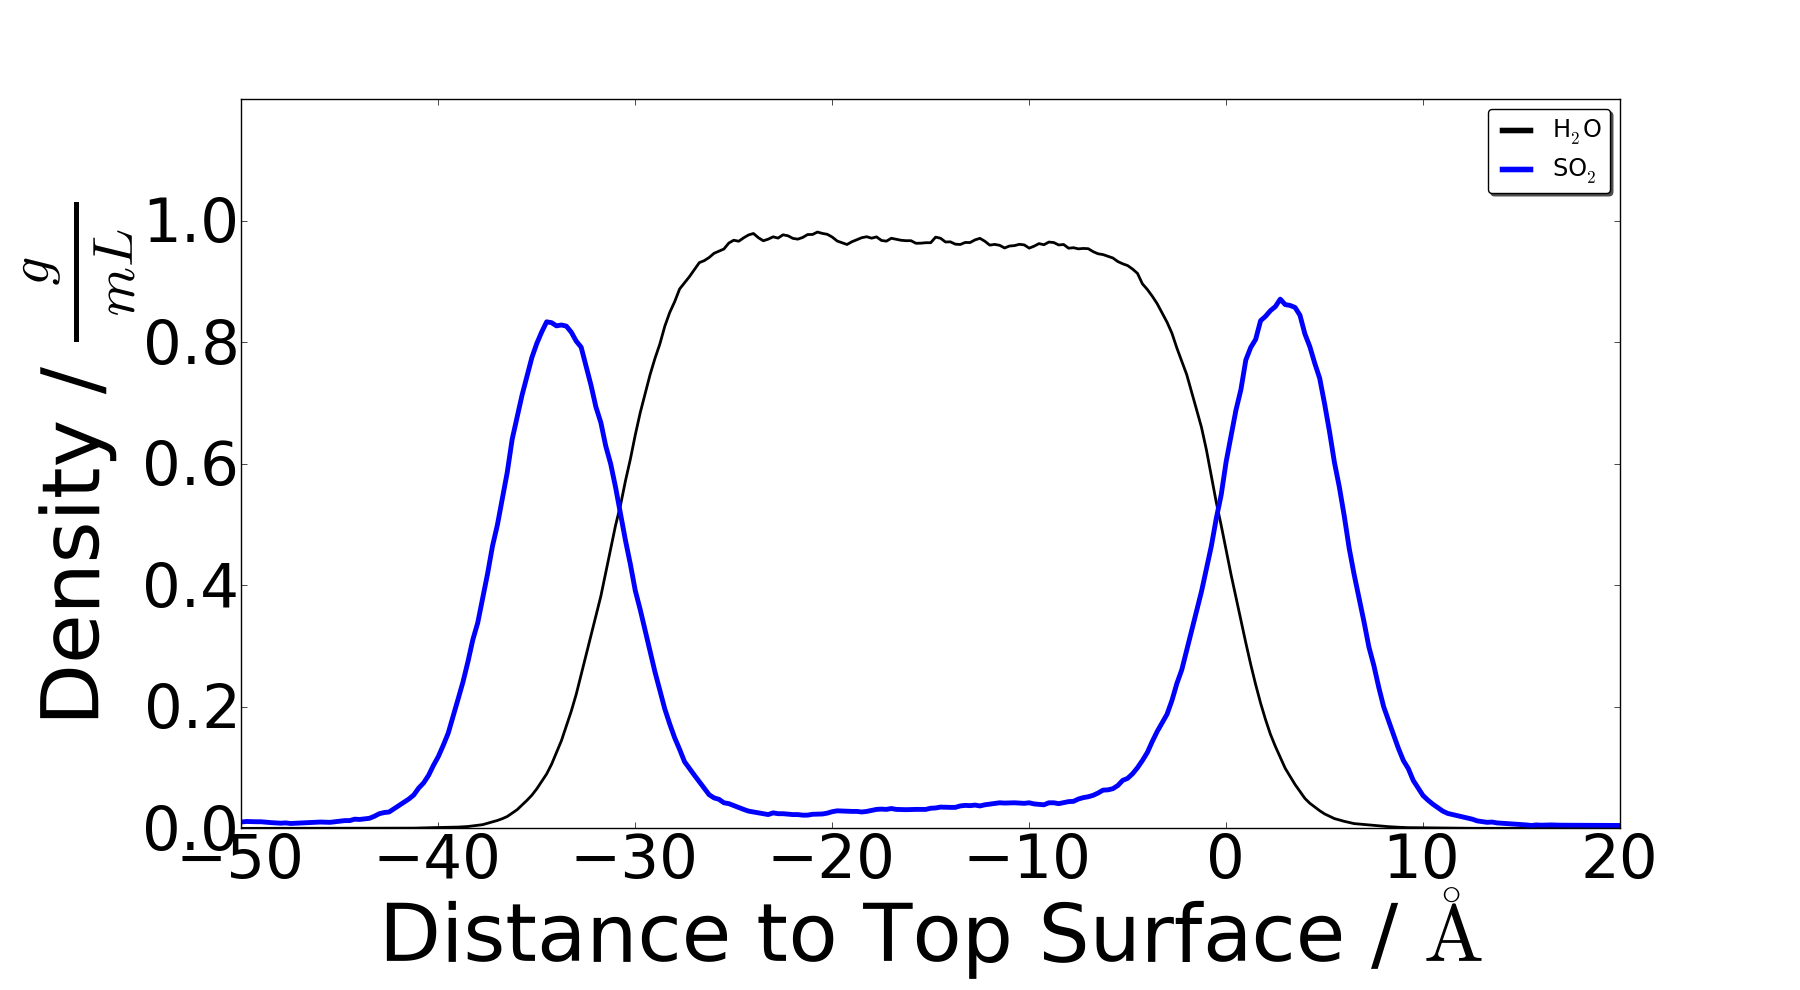
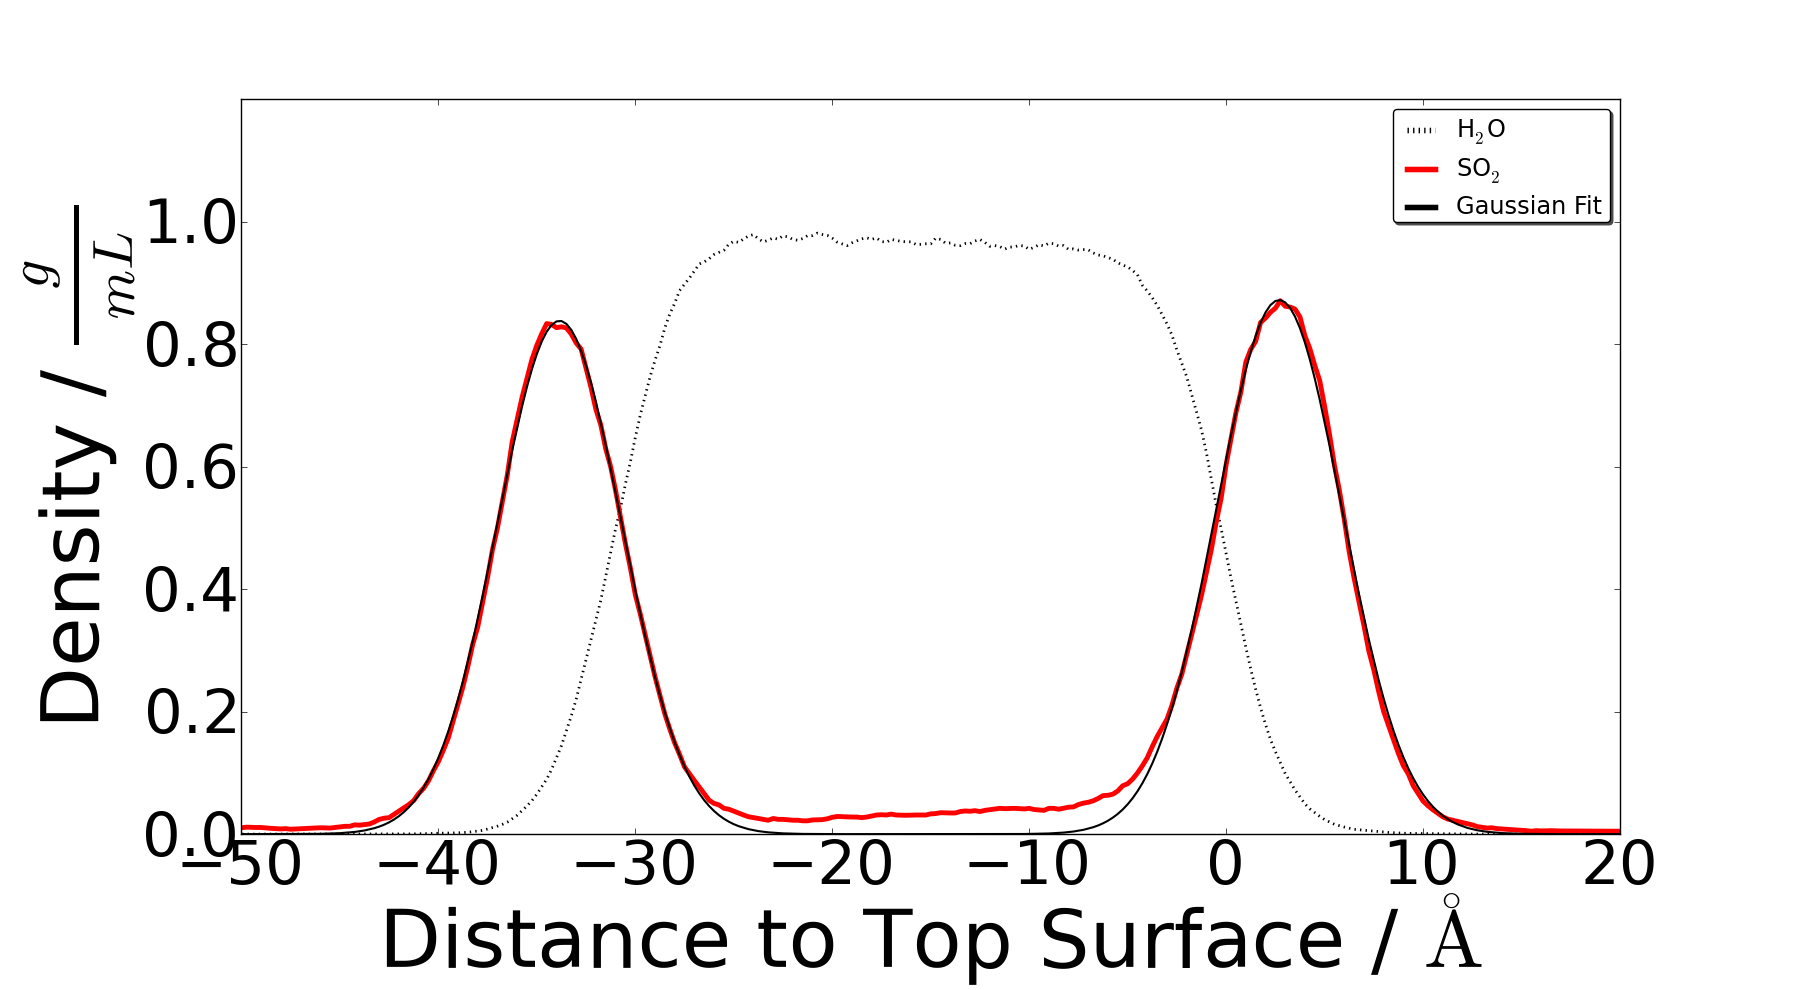
New density plots and wrapped up most of the density results section.

diff --git a/DensityResults.tex b/DensityResults.tex
@@ -1,0 +1,22 @@
+\section{Surface Density Distributions}
+
+One measure of surface activity is the spatial distribution of molecules around the interfacial region. The density distribution of both \wat~and\suldiox~were calculated for the equilibrium MD simulations, and the results are presented in figure \ref{fig:density} for both the neat-water and saturated simulations. The \suldiox~in the neat-water system remained at the top slab surface. While the \suldiox~equilibrated in the saturated system, both in the bulk and gas phases accumulated at both the top and bottom surfaces. 
+
+The density distributions of the \suldiox~were fit to gaussian lineshapes as shown in equation \ref{eq:gaussian} using the common definitions of the variables $A$, $\mu$, and $\sigma$, and given as a function of the distance to the surface, $z$.
+
+\begin{equation}
+  \rho(z)=\frac{A}{\sqrt{2 \pi \sigma^2}} e^{-\frac{(z-\mu)^2}{2\sigma^2}}
+  \label{eq:gaussian}
+\end{equation}
+
+In the neat-water \suldiox~distribution, $\mu=0.781$, $A=0.109$, and $\sigma=1.684$\angs. Thus, the \suldiox~tends to locate just beneath the surface when in a low-concentration water environment, and it did not fall further into the bulk or move out of the surface into the gas phase. This surface active behavior was found experimentally by a previous SFG study by our group,\cite{Tarbuck2005,Tarbuck2006} and also verified by the computational simulations and spectral calculations of Dang et al.\cite{Baer2010} It was concluded that a surface \suldiox~hydrate complex forms and modifies the structure of water above the Gibbs dividing surface (GDS) shifting \was~free-OH oscillators in towards the bulk, creating a stronger hydrogen-bonding network. In a later section of this article we look at the effect of \suldiox~on surface water orientation.
+
+Both saturated \suldiox~surfaces exhibit accumulations of \suldiox. However, unlike the neat-water slab, the saturated slab has a non-zero bulk concentration of \suldiox~that does not adsorb to the surface. The coefficient values for the top surface from eq \ref{eq:gaussian} are $\mu_{top}=2.695$, $A_{top}=7.001$, and $\sigma_{top}=3.203$. The bottom surface values are $\mu_{bottom}=-33.846$, $A_{bottom}=6.618$, and $\sigma_{bottom}=3.151$\angs. The added concentration of \suldiox~creates a layer of molecules adsorbed on top of the water surface. The center of this distribution is further into the gas phase than for the single-\suldiox~molecule surface. The accumulation of \suldiox~in this classical simulation coincides with the experimental conclusions of a surface of hydrate-complexed \suldiox, but without breakble bonds in the simulation the chemistry that may pull \suldiox~into the bulk water phase is absent. We have confidence in the surface complexation that is exhibited, the effect of the \suldiox~on the surface water molecules, and the accumulation of \suldiox at the interface. However, we do not yet conclude that the specific locations of \suldiox~on top of the water surface are as accurate as those found in the DFT ab initio calculations of Dang et al.\cite{Baer2010}
+
+\begin{figure}[h!]
+	\begin{center}
+		\includegraphics[scale=1.0]{images/density/density.png}
+		\caption{Molecular density distributions of \wat~and \suldiox~calculated along the long-axis of the simulated cells. The distance axis shows the distance of the given molecule from the top surface of the \wat~slab, with positive values located above the slab towards the gas phase, and negative values located in the water bulk. The lower slab surface is located at approx. -30\angs. Distributions of both the neat-water simulation with a single \suldiox~(left, scaled 10x for clarity), and the saturated system (right) are shown.}
+		\label{fig:density}
+	\end{center}
+\end{figure}

diff --git a/Article.tex b/Article.tex
@@ -32,6 +32,7 @@
 \include{Introduction}
 \include{Background}
 \include{Methods}
+\include{DensityResults}
 \include{EquilibratedOrientation}
 \include{TransitOrientation}
 \include{CycleResults}
